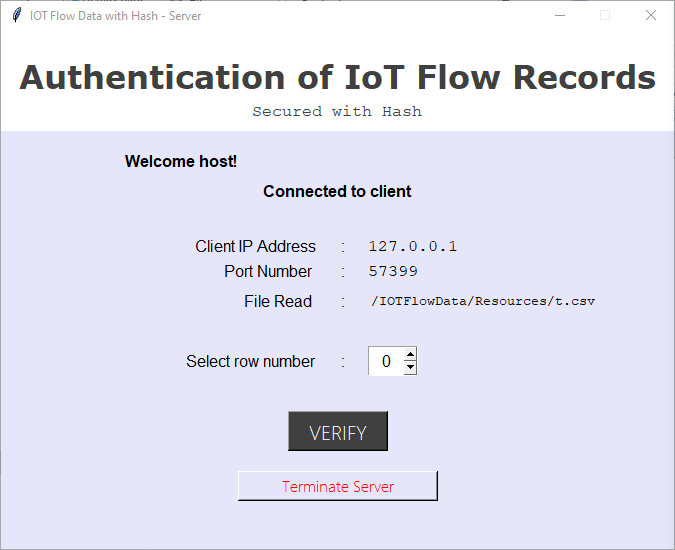
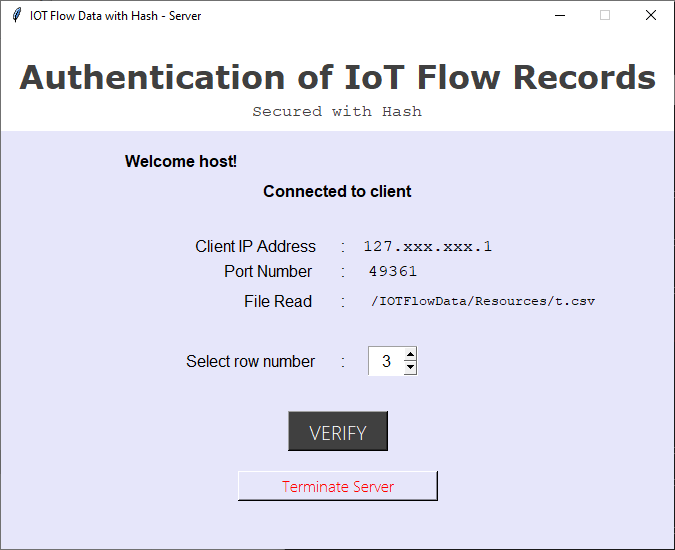
Updated with hidden client IP

diff --git a/Asymm/GUI/server.py b/Asymm/GUI/server.py
@@ -88,6 +88,16 @@ with socket.socket(socket.AF_INET, socket.SOCK_STREAM) as s:
 	while True:
 		conn, addr = s.accept()
 		with conn:
+			hn = str(addr[0])
+			hostname = []
+			c = 0
+			while hn[c] != '.':
+				hostname.append(hn[c])
+				c += 1
+			hostname += ['.xxx.xxx.']
+			hostname += hn[-1:]
+			hostname = ''.join(hostname)
+
 			root = Tk()
 			root.title('IOT Flow Data with Hash - Server') 
 			root.attributes('-topmost', 1)
@@ -106,7 +116,7 @@ with socket.socket(socket.AF_INET, socket.SOCK_STREAM) as s:
 			Label(root, text = "Connected to client", font = ("Arial Bold", 12), bg = BG).place(x = 0, y = 150, width = w1, height = 20)
 			Label(root, text = "Client IP Address", font = ("Arial", 12), justify = "right", bg = BG).place(x = w1 / 2 - 145, y = 205, width = 125, height = 20)
 			Label(root, text = ":", font = ("Arial", 12), justify = "center", bg = BG).place(x = w1 / 2, y = 205, width = 10, height = 20)
-			Label(root, text = str(addr[0]), font = ("Courier", 12), justify = "left", bg = BG).place(x = w1 / 2 + 25, y = 205, width = 100, height = 20)
+			Label(root, text = hostname, font = ("Courier", 12), justify = "left", bg = BG).place(x = w1 / 2 + 25, y = 205, width = 130, height = 20)
 			Label(root, text = "Port Number", font = ("Arial", 12), justify = "right", bg = BG).place(x = w1 / 2 - 120, y = 230, width = 100, height = 20)
 			Label(root, text = ":", font = ("Arial", 12), justify = "center", bg = BG).place(x = w1 / 2, y = 230, width = 10, height = 20)
 			Label(root, text = str(addr[1]), font = ("Courier", 12), justify = "left", bg = BG).place(x = w1 / 2 + 25, y = 230, width = 60, height = 20)

diff --git a/Symm/GUI/server.py b/Symm/GUI/server.py
@@ -86,6 +86,16 @@ with socket.socket(socket.AF_INET, socket.SOCK_STREAM) as s:
 	while True:
 		conn, addr = s.accept()
 		with conn:
+			hn = str(addr[0])
+			hostname = []
+			c = 0
+			while hn[c] != '.':
+				hostname.append(hn[c])
+				c += 1
+			hostname += ['.xxx.xxx.']
+			hostname += hn[-1:]
+			hostname = ''.join(hostname)
+
 			root = Tk()
 			root.title('IOT Flow Data with Hash - Server') 
 			root.attributes('-topmost', 1)
@@ -104,7 +114,7 @@ with socket.socket(socket.AF_INET, socket.SOCK_STREAM) as s:
 			Label(root, text = "Connected to client", font = ("Arial Bold", 12), bg = BG).place(x = 0, y = 150, width = w1, height = 20)
 			Label(root, text = "Client IP Address", font = ("Arial", 12), justify = "right", bg = BG).place(x = w1 / 2 - 145, y = 205, width = 125, height = 20)
 			Label(root, text = ":", font = ("Arial", 12), justify = "center", bg = BG).place(x = w1 / 2, y = 205, width = 10, height = 20)
-			Label(root, text = str(addr[0]), font = ("Courier", 12), justify = "left", bg = BG).place(x = w1 / 2 + 25, y = 205, width = 100, height = 20)
+			Label(root, text = hostname, font = ("Courier", 12), justify = "left", bg = BG).place(x = w1 / 2 + 25, y = 205, width = 130, height = 20)
 			Label(root, text = "Port Number", font = ("Arial", 12), justify = "right", bg = BG).place(x = w1 / 2 - 120, y = 230, width = 100, height = 20)
 			Label(root, text = ":", font = ("Arial", 12), justify = "center", bg = BG).place(x = w1 / 2, y = 230, width = 10, height = 20)
 			Label(root, text = str(addr[1]), font = ("Courier", 12), justify = "left", bg = BG).place(x = w1 / 2 + 25, y = 230, width = 60, height = 20)

diff --git a/Hash/GUI/server.py b/Hash/GUI/server.py
@@ -66,6 +66,16 @@ with socket.socket(socket.AF_INET, socket.SOCK_STREAM) as s:
 	while True:
 		conn, addr = s.accept()
 		with conn:
+			hn = str(addr[0])
+			hostname = []
+			c = 0
+			while hn[c] != '.':
+				hostname.append(hn[c])
+				c += 1
+			hostname += ['.xxx.xxx.']
+			hostname += hn[-1:]
+			hostname = ''.join(hostname)
+
 			root = Tk()
 			root.title('IOT Flow Data with Hash - Server')
 			root.attributes('-topmost', 1)
@@ -84,7 +94,7 @@ with socket.socket(socket.AF_INET, socket.SOCK_STREAM) as s:
 			Label(root, text = "Connected to client", font = ("Arial Bold", 12), bg = BG).place(x = 0, y = 150, width = w1, height = 20)
 			Label(root, text = "Client IP Address", font = ("Arial", 12), justify = "right", bg = BG).place(x = w1 / 2 - 145, y = 205, width = 125, height = 20)
 			Label(root, text = ":", font = ("Arial", 12), justify = "center", bg = BG).place(x = w1 / 2, y = 205, width = 10, height = 20)
-			Label(root, text = str(addr[0]), font = ("Courier", 12), justify = "left", bg = BG).place(x = w1 / 2 + 25, y = 205, width = 100, height = 20)
+			Label(root, text = hostname, font = ("Courier", 12), justify = "left", bg = BG).place(x = w1 / 2 + 25, y = 205, width = 130, height = 20)
 			Label(root, text = "Port Number", font = ("Arial", 12), justify = "right", bg = BG).place(x = w1 / 2 - 120, y = 230, width = 100, height = 20)
 			Label(root, text = ":", font = ("Arial", 12), justify = "center", bg = BG).place(x = w1 / 2, y = 230, width = 10, height = 20)
 			Label(root, text = str(addr[1]), font = ("Courier", 12), justify = "left", bg = BG).place(x = w1 / 2 + 25, y = 230, width = 60, height = 20)
